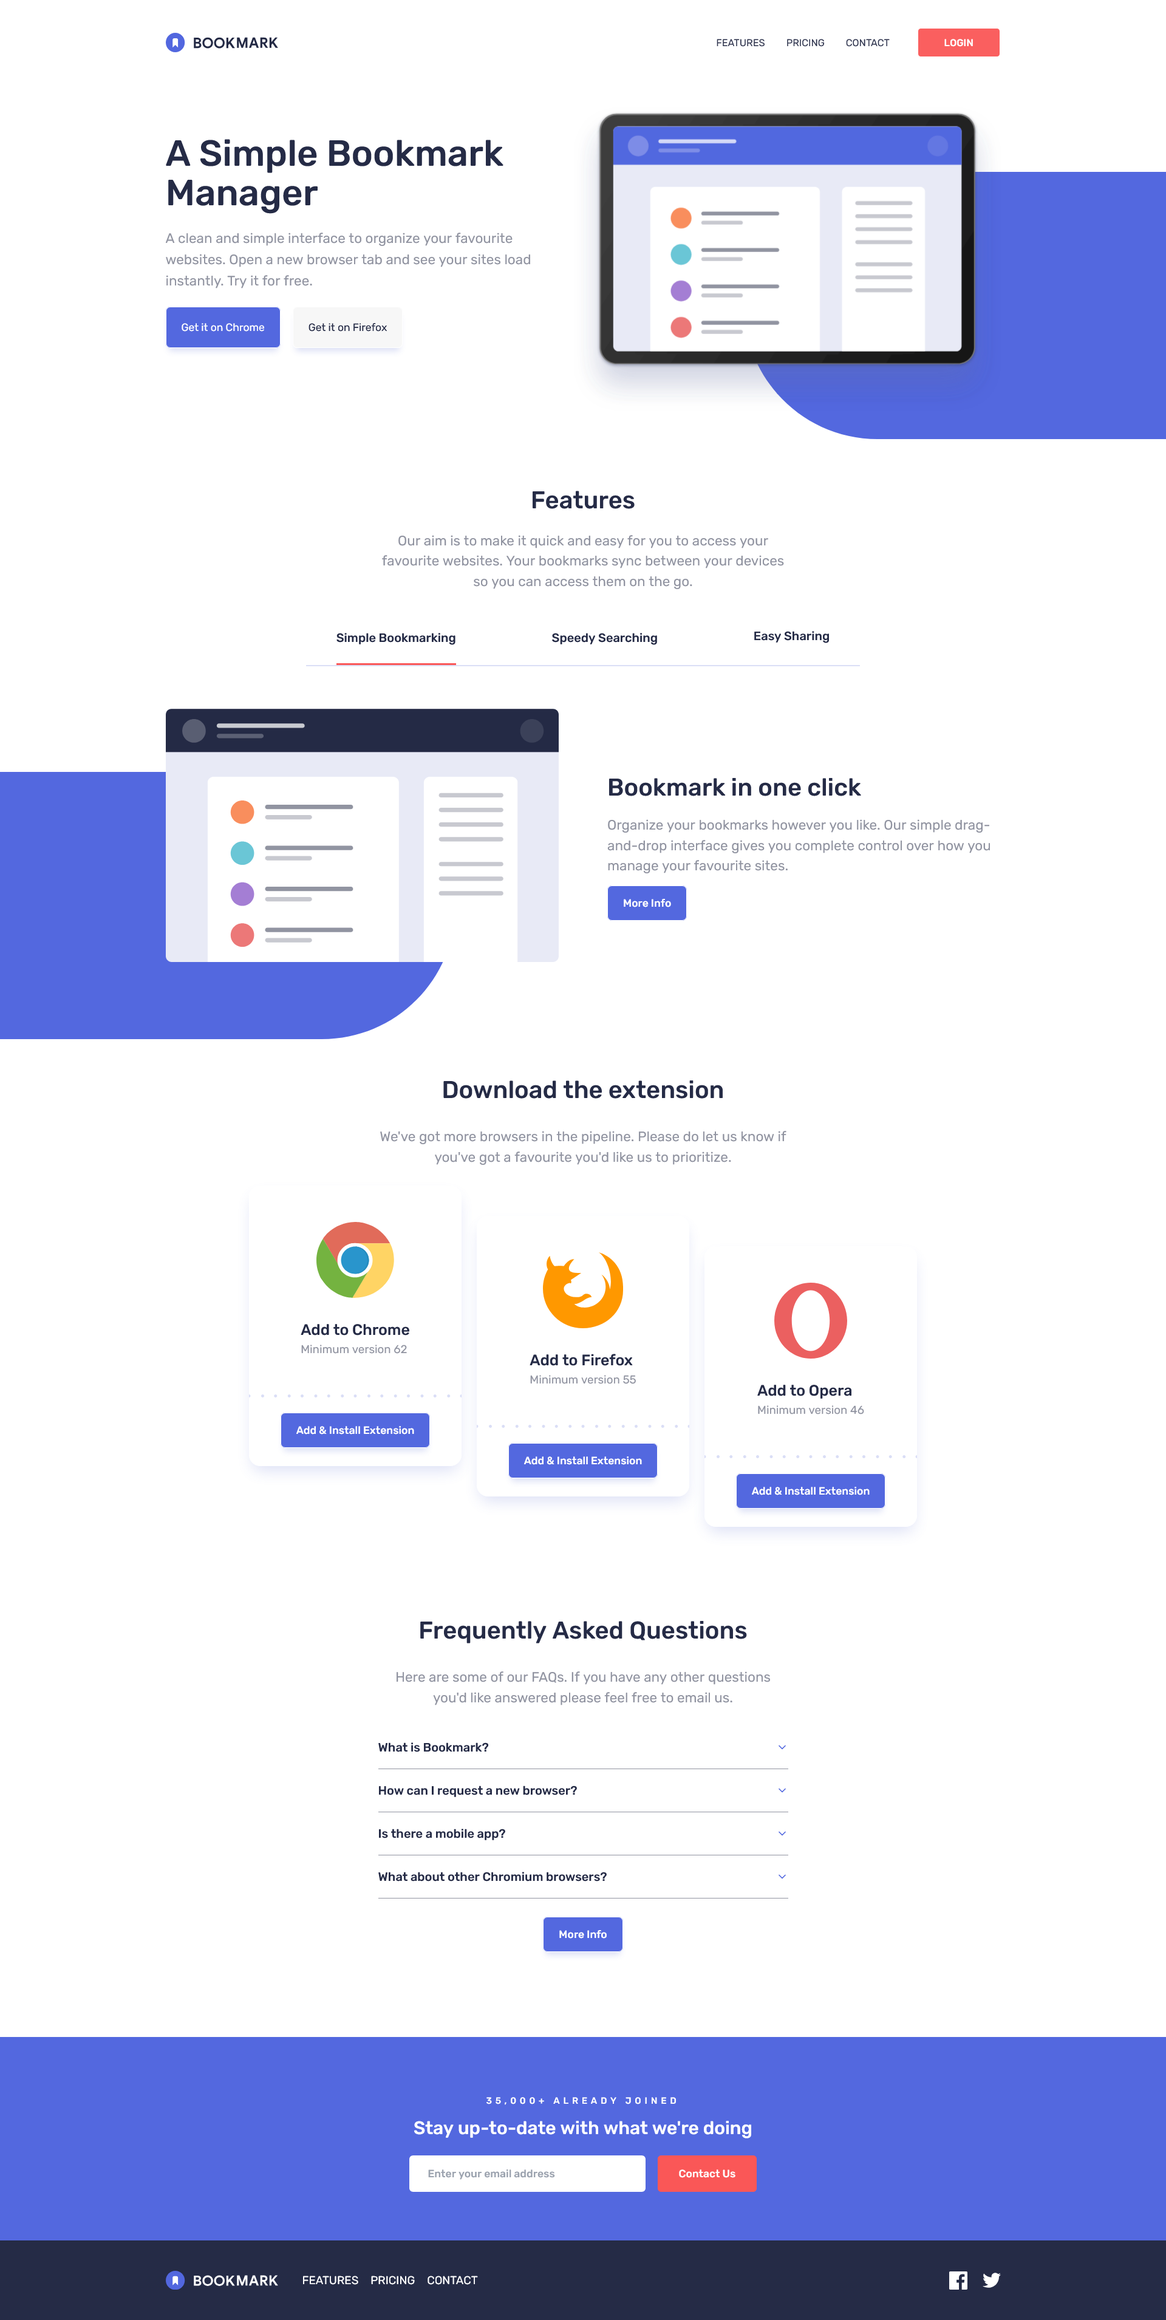
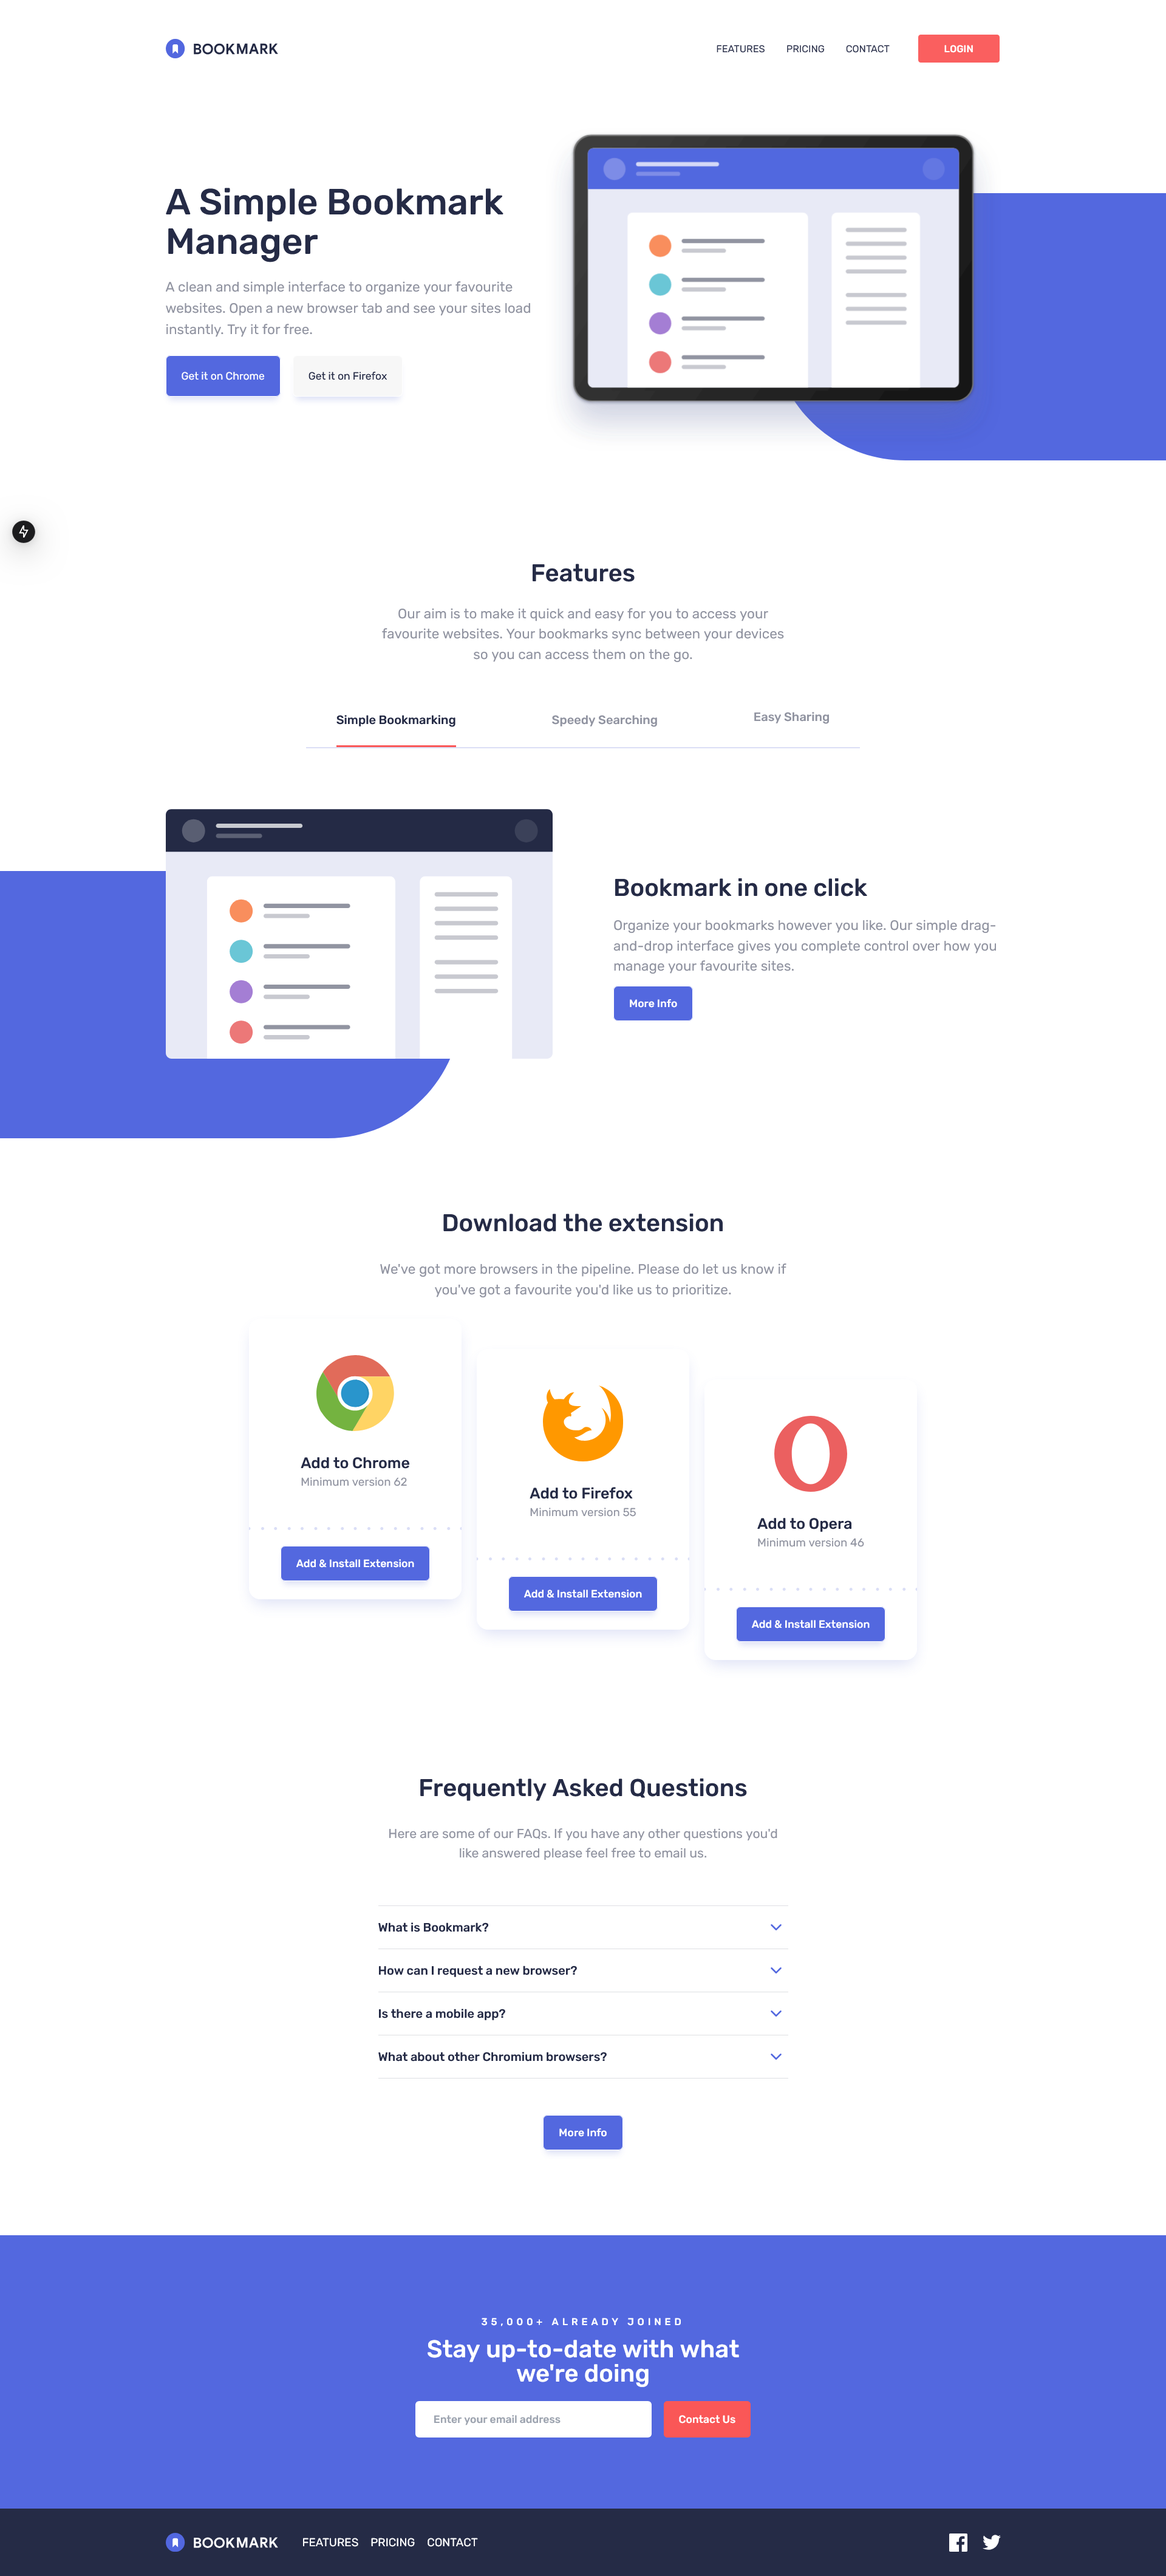
fixed some styling and updated the ReadMe file

diff --git a/src/components/Main/index.tsx b/src/components/Main/index.tsx
@@ -29,7 +29,7 @@ const Main = () => {
 
   return (
     <main>
-      <div className='w-[90%] md:w-[540px] md:mt-16 mx-auto'>
+      <div className='w-[90%] md:w-[540px] md:mt-16 lg:mt-24 mx-auto'>
         <h2 className='text-center text-dark-blue text-[24px] md:text-[32px] font-medium '>
           Features
         </h2>
@@ -40,11 +40,13 @@ const Main = () => {
         </p>
       </div>
       <div className='w-[90%] mx-auto'>
-        <div className=' text-grayish-blue flex flex-col  md:flex-row md:w-[730px] md:mx-auto  items-stretch justify-center md:justify-between border-t-2 border-b-2 border-light-blue md:border-t-0  md:mt-5 md:px-10'>
+        <div className=' text-grayish-blue flex flex-col  md:flex-row md:w-[730px] md:mx-auto  items-stretch justify-center md:justify-between border-t-2 border-b-2 border-light-blue md:border-t-0  md:mt-5 lg:mt-8 md:px-10'>
           <div className=' flex justify-center items-stretch md:items-center'>
-            <button
+            <div
               onClick={handleButton1Click}
-              className=' py-4 md:pt-3 md:pb-6 font-medium text-dark-blue hover:text-soft-red md:h-full relative'
+              className={` py-4 md:pt-3 md:pb-6 font-medium ${
+                activeButton === 1 ? 'text-dark-blue' : 'text-opacity-[0.75]'
+              }   hover:text-soft-red md:h-full relative`}
             >
               Simple Bookmarking
               {activeButton === 1 && (
@@ -53,12 +55,16 @@ const Main = () => {
                md:after:left-0 after:w-full  after:h-[2px] after:bg-soft-red'
                 ></div>
               )}
-            </button>
+            </div>
           </div>
           <div className='border-t-2  border-light-blue md:border-none flex justify-center items-stretch md:items-center'>
-            <button
+            <div
               onClick={handleButton2Click}
-              className=' py-4 md:pt-3 md:pb-6 font-medium text-dark-blue hover:text-soft-red  md:h-full relative'
+              className={`
+
+              } py-4 md:pt-3 md:pb-6 font-medium ${
+                activeButton === 2 ? 'text-dark-blue' : 'text-opacity-[0.75]'
+              }  md:h-full relative`}
             >
               Speedy Searching
               {activeButton === 2 && (
@@ -67,13 +73,15 @@ const Main = () => {
                md:after:left-0 after:w-full  after:h-[2px] after:bg-soft-red'
                 ></div>
               )}
-            </button>
+            </div>
           </div>
           <div className='border-t-2  border-light-blue md:border-none flex justify-center items-stretch md:items-center'>
-            <button
+            <div
               onClick={handleButton3Click}
-              className=' pt-2 pb-6 font-medium text-dark-blue
-               hover:text-soft-red md:h-full relative'
+              className={` pt-2 pb-6 font-medium ${
+                activeButton === 3 ? 'text-dark-blue' : 'text-opacity-[0.75]'
+              } 
+               hover:text-soft-red md:h-full relative`}
             >
               Easy Sharing
               {activeButton === 3 && (
@@ -82,7 +90,7 @@ const Main = () => {
                md:after:left-0 after:w-full after:h-[2px] after:bg-soft-red'
                 ></div>
               )}
-            </button>
+            </div>
           </div>
         </div>
       </div>
@@ -91,14 +99,14 @@ const Main = () => {
         <div
           className={` ${
             activeButton === 1 ? 'opacity-100' : 'opacity-0'
-          } transition-opacity duration-300 ease-in-out relative md:flex md:justify-between md:gap-16  w-[90%] md:max-w-[1100px] mx-auto mt-14 mb-36`}
+          } transition-opacity duration-300 ease-in-out relative md:flex md:justify-between md:gap-16 lg:gap-20  w-[90%] md:max-w-[1100px] mx-auto mt-14 lg:mt-20 mb-36`}
         >
           <div className='relative flex justify-center items-center mt-10 md:mt-0 md:w-1/2'>
             <div className="after:absolute after:top-1/4  after:w-[80%] after:-left-[20%] md:after:w-[600px]  lg:after:w-[900px] md:after:-left-full after:h-[11.5rem] md:after:h-[260px] lg:after:h-[352px] after:content-[''] after:bg-soft-blue after:bg-[length:200%] after:rounded-r-[316px] after:z-[-1000]"></div>
             <img
               src='/illustration-features-tab-1.svg'
               alt=''
-              className='w-[340px] lg:w-[536px] '
+              className='w-[340px] lg:w-full '
             />
           </div>
           <div className='mt-20 w-[90%] md:w-1/2 mx-auto  md:max-w-[540px]'>
@@ -122,14 +130,14 @@ const Main = () => {
         <div
           className={`transition-opacity duration-300 ease-in-out relative mb-5 ${
             activeButton === 2 ? 'opacity-100' : 'opacity-0'
-          } transition-opacity duration-300 ease-in-out relative md:flex md:justify-between md:gap-16  w-[90%] md:max-w-[1100px] mx-auto mt-14 mb-3`}
+          } transition-opacity duration-300 ease-in-out relative md:flex md:justify-between md:gap-16 lg:gap-20  w-[90%] md:max-w-[1100px] mx-auto mt-14  lg:mt-20 mb-3`}
         >
           <div className='relative flex justify-center items-center mt-10 md:mt-0 md:w-1/2'>
             <div className="after:absolute after:top-1/4  after:w-[80%] after:-left-[20%] md:after:w-[600px]  lg:after:w-[900px] md:after:-left-full after:h-[11.5rem] md:after:h-[260px] lg:after:h-[352px] after:content-[''] after:bg-soft-blue after:bg-[length:200%] after:rounded-r-[316px] after:z-[-1000]"></div>
             <img
               src='/illustration-features-tab-2.svg'
               alt=''
-              className='w-[340px] lg:w-[536px] '
+              className='w-[340px] lg:w-full '
             />
           </div>
           <div className='mt-20 w-[90%] mx-auto  md:w-1/2   md:max-w-[540px]'>
@@ -150,7 +158,7 @@ const Main = () => {
       )}
       {activeButton === 3 && (
         <div
-          className={`transition-opacity duration-300 ease-in-out relative md:flex md:justify-between md:gap-16  w-[90%] md:max-w-[1100px] mx-auto mt-14 mb-3 ${
+          className={`transition-opacity duration-300 ease-in-out relative md:flex md:justify-between md:gap-16 lg:gap-20  w-[90%] md:max-w-[1100px] mx-auto mt-14 lg:mt-20 mb-3 ${
             activeButton === 3 ? 'opacity-100' : 'opacity-0'
           }`}
         >
@@ -159,7 +167,7 @@ const Main = () => {
             <img
               src='/illustration-features-tab-3.svg'
               alt=''
-              className='w-[340px] lg:w-[536px] '
+              className='w-[340px] lg:w-full '
             />
           </div>
           <div className='mt-20 w-[90%] mx-auto  md:w-1/2   md:max-w-[540px]'>
@@ -178,7 +186,7 @@ const Main = () => {
           </div>
         </div>
       )}
-      <section className='mt-24 w-[90%] mx-auto'>
+      <section className='mt-24 lg:mt-48 w-[90%] mx-auto'>
         <div className='md:max-w-[540px] md:mx-auto'>
           <h4 className='text-[24px] md:text-[32px] text-center text-dark-blue font-medium'>
             Download the extension

diff --git a/src/components/FAQ/index.tsx b/src/components/FAQ/index.tsx
@@ -8,15 +8,15 @@ import {
 
 const Faq = () => {
   return (
-    <div className='w-[90%] mx-auto md:max-w-[540px] mt-28'>
+    <div className='w-[90%] mx-auto md:max-w-[540px] mt-28 lg:mt-36'>
       <h3 className='text-[24px] md:text-[32px] text-dark-blue text-center font-medium'>
         Frequently Asked Questions
       </h3>
-      <p className='text-grayish-blue text-center text-[15px] md:text-[18px] py-4 md:py-6'>
+      <p className='text-grayish-blue text-center text-[15px] md:text-[17px] py-4 md:py-6'>
         Here are some of our FAQs. If you have any other questions you&apos;d
         like answered please feel free to email us.
       </p>
-      <div>
+      <div className='md:border-t md:border-dark-blue md:border-opacity-[0.1477] lg:mt-8'>
         <Accordion type='single' collapsible>
           <AccordionItem value='item-1'>
             <AccordionTrigger>What is Bookmark?</AccordionTrigger>
@@ -68,7 +68,7 @@ const Faq = () => {
           </AccordionItem>
         </Accordion>
       </div>
-      <div className='flex justify-center items-center mt-6 mb-28'>
+      <div className='flex justify-center items-center mt-6 md:mt-12 mb-28'>
         <button className='bg-soft-blue border border-white text-white  text-[14px] shadow-customButton font-medium py-3 px-5 rounded-md hover:text-soft-blue hover:bg-white hover:border-soft-blue transition-all duration-300'>
           More Info
         </button>

diff --git a/src/components/Cta/index.tsx b/src/components/Cta/index.tsx
@@ -26,14 +26,14 @@ const Cta = () => {
   };
 
   return (
-    <div className='bg-soft-blue text-white text-center'>
-      <div className='w-[90%] mx-auto py-16'>
-        <h6 className='text-xs font-medium tracking-[4.615px] leading-[40px]'>
+    <div className='bg-soft-blue text-white text-center flex justify-center items-center h-[360px]'>
+      <div className='w-[90%] md:max-w-[442px] mx-auto'>
+        <h3 className='text-xs md:text-[13px] font-medium tracking-[4.615px] leading-[40px]'>
           35,000+ ALREADY JOINED
-        </h6>
-        <h3 className='text-2xl font-medium mb-5'>
-          Stay up-to-date with what we&apos;re doing
         </h3>
+        <h4 className='text-2xl lg:text-[32px] font-medium mb-5'>
+          Stay up-to-date with what we&apos;re doing
+        </h4>
         <form
           onSubmit={handleSubmit}
           className='flex flex-col items-center md:flex-row md:justify-center md:items-start font-medium  gap-4'
@@ -59,7 +59,7 @@ const Cta = () => {
               />
             </div>
             {error && (
-              <span className='text-white text-[10px] text-left self-start bg-soft-red  py-1 px-2  italic'>
+              <span className='text-white text-[10px] text-left self-start bg-soft-red md:h-5 py-1 px-2  italic'>
                 {error}
               </span>
             )}

diff --git a/src/components/ui/Accordian/index.tsx b/src/components/ui/Accordian/index.tsx
@@ -12,7 +12,7 @@ const AccordionItem = React.forwardRef<
 >(({ ...props }, ref) => (
   <AccordionPrimitive.Item
     ref={ref}
-    className='border-b  border-grayish-blue'
+    className='border-b  md:border-dark-blue md:border-opacity-[0.1477]'
     {...props}
   />
 ));
@@ -28,7 +28,7 @@ const AccordionTrigger = React.forwardRef<
       className='flex flex-1 items-center text-dark-blue hover:text-soft-red justify-between py-4 font-medium transition-all  [&[data-state=open]>svg]:rotate-180 [&[data-state=open]>svg]:text-soft-red'
     >
       {children}
-      <ChevronDown className='h-4 w-4 text-soft-blue shrink-0 transition-transform duration-200' />
+      <ChevronDown className='h-6 w-8 text-soft-blue ml-8 shrink-0 transition-transform duration-200' />
     </AccordionPrimitive.Trigger>
   </AccordionPrimitive.Header>
 ));

diff --git a/src/components/Header.tsx/index.tsx b/src/components/Header.tsx/index.tsx
@@ -8,13 +8,13 @@ const Header = () => {
         <img
           src='/illustration-hero.svg'
           alt=''
-          className='w-[340px] lg:w-[575px] lg:ml-30'
+          className='w-[340px] lg:w-full lg:ml-30'
         />
       </div>
 
-      <div className='w-[90%] md:w-1/2 mx-auto mt-7 md:mt-16 mb-28 '>
+      <div className='w-[90%] md:w-1/2 mx-auto mt-7 lg:mt-28 mb-28 '>
         <div className=''>
-          <h1 className='text-[30px] lg:text-[48px] lg:leading-[52px] font-medium text-dark-blue text-center md:text-left '>
+          <h1 className='text-[30px] lg:text-[48px] lg:leading-[52px]  font-medium text-dark-blue text-center md:text-left '>
             A Simple Bookmark Manager
           </h1>
           <p className='text-[15px] lg:text-[18px] lg:leading-7  text-grayish-blue text-center py-5 md:text-left'>

diff --git a/src/components/Footer/index.tsx b/src/components/Footer/index.tsx
@@ -3,7 +3,7 @@ import React from 'react';
 const Footer = () => {
   return (
     <div className='bg-dark-blue'>
-      <div className='w-[90%] md:max-w-[1100px]  mx-auto flex flex-col md:flex-row md:justify-between justify-center items-center gap-6 py-10'>
+      <div className='w-[90%] md:max-w-[1100px]  mx-auto flex flex-col md:flex-row md:justify-between justify-center items-center gap-6 py-10 md:py-8'>
         <div className='flex flex-col md:flex-row md:items-center justify-center gap-8'>
           <a href='#'>
             <svg width='148' height='25' xmlns='http://www.w3.org/2000/svg'>

diff --git a/src/components/Navbar/index.tsx b/src/components/Navbar/index.tsx
@@ -13,7 +13,7 @@ const Navbar = () => {
   }, [isOpen]);
 
   return (
-    <div className='flex justify-between items-center md:w-full py-6 md:py-7  px-5 lg:px-0  md:max-w-[1100px] md:mx-auto'>
+    <div className='flex justify-between items-center md:w-full py-6 md:py-9  px-5 lg:px-0  md:max-w-[1100px] md:mx-auto'>
       <a href=''>
         <img src='/logo-bookmark.svg' alt='' />
       </a>

diff --git a/src/app/layout.tsx b/src/app/layout.tsx
@@ -8,6 +8,9 @@ export default function RootLayout({
 }>) {
   return (
     <html lang='en' className={`${rubik.variable}`}>
+      <head>
+        <title>Bookmark Landing Page</title>
+      </head>
       <body>{children}</body>
     </html>
   );
